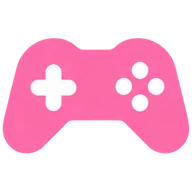
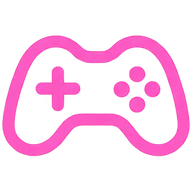
「ほかのゲーム」「感想」リンクのアイコンを、AIゲーム実験室と同じラインアイコンに

diff --git a/index.html b/index.html
@@ -60,7 +60,7 @@
         </div>
         <div class="panel-body" id="overlay-body"></div>
         <div class="panel-btns" id="overlay-btns"></div>
-        <a class="panel-link hidden" id="overlay-feedback" href="../ad-games/feedback.html?game=power"><img class="lk-ic" src="img/ui/icon_feedback.webp?v=2" alt="" width="96" height="96">感想・改善案を送る</a>
+        <a class="panel-link hidden" id="overlay-feedback" href="../ad-games/feedback.html?game=power"><img class="lk-ic" src="img/ui/icon_feedback.webp?v=3" alt="" width="96" height="96">感想・改善案を送る</a>
       </div>
     </div>
     <div id="confetti" class="confetti"></div>
@@ -77,7 +77,7 @@
       <div class="title-coins"><img src="img/items/coins.webp" alt=""><span id="title-coins">0</span></div>
       <div class="title-links">
         <button class="a2hs-btn hidden" id="a2hs-btn">📲 ホーム画面に追加</button>
-        <a class="games-btn" href="../ad-games/"><img class="lk-ic" src="img/ui/icon_games.webp?v=2" alt="" width="96" height="96">ほかのゲーム</a>
+        <a class="games-btn" href="../ad-games/"><img class="lk-ic" src="img/ui/icon_games.webp?v=3" alt="" width="96" height="96">ほかのゲーム</a>
       </div>
     </section>
 
@@ -126,7 +126,7 @@
       </div>
       <div class="shop-list" id="shop-list"></div>
       <p class="shop-note">金貨はステージクリアでもらえます。★が多いほどたくさん！</p>
-      <a class="feedback-btn" href="../ad-games/feedback.html?game=power"><img class="lk-ic" src="img/ui/icon_feedback.webp?v=2" alt="" width="96" height="96">感想・改善案を送る</a>
+      <a class="feedback-btn" href="../ad-games/feedback.html?game=power"><img class="lk-ic" src="img/ui/icon_feedback.webp?v=3" alt="" width="96" height="96">感想・改善案を送る</a>
     </section>
   </div>
 
